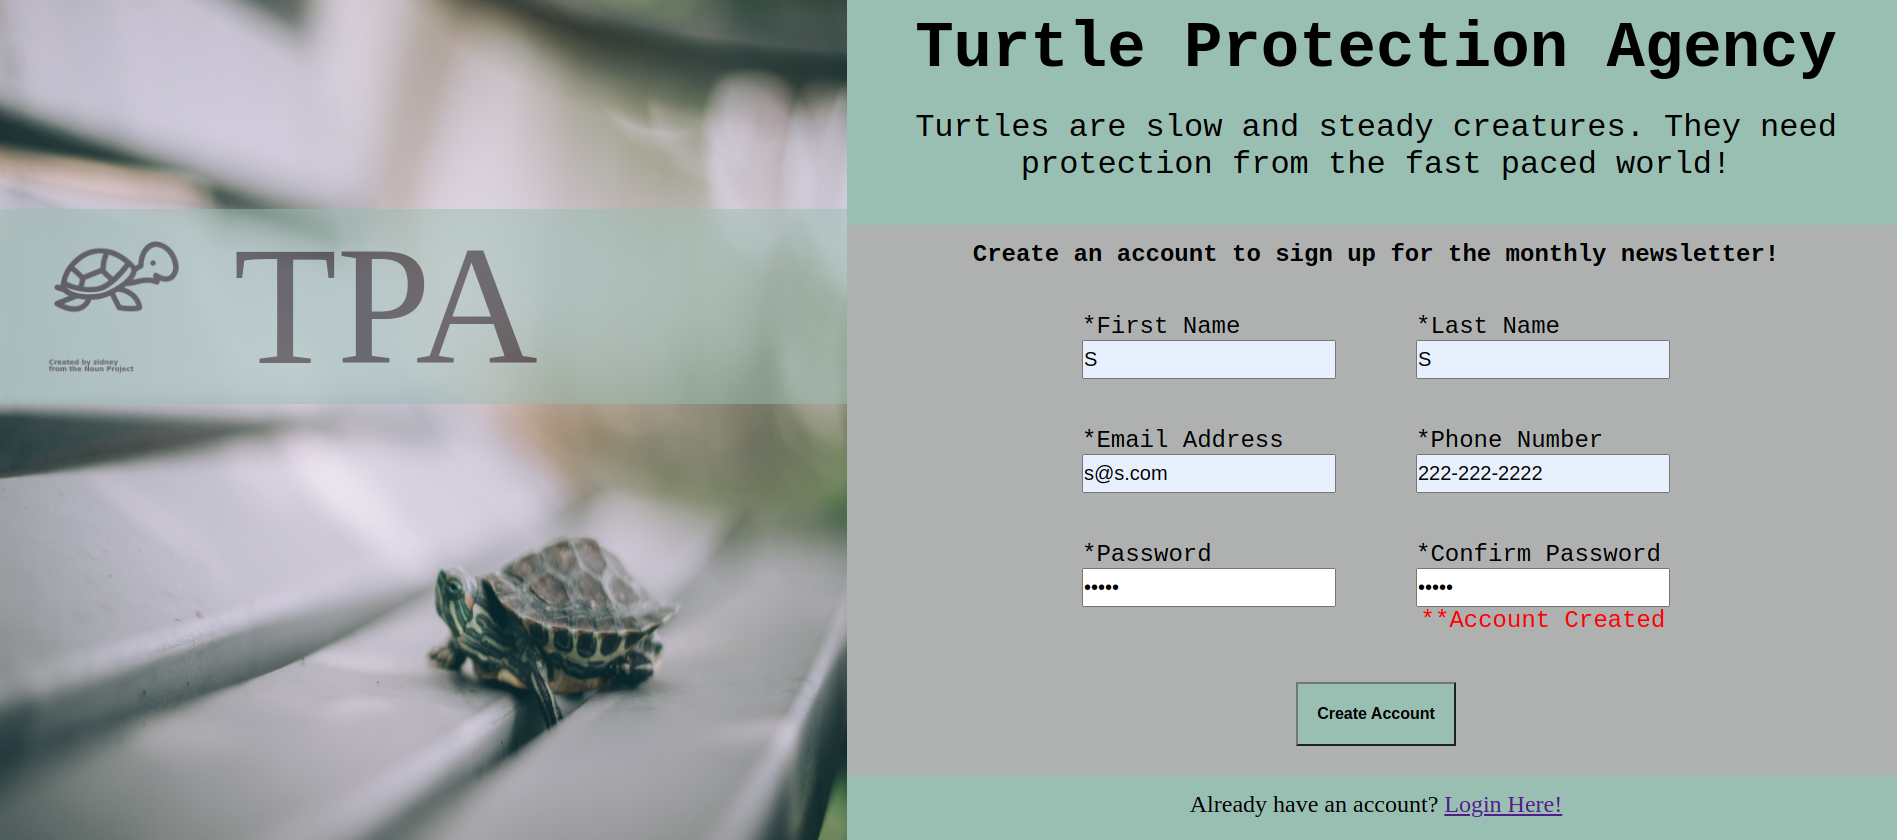
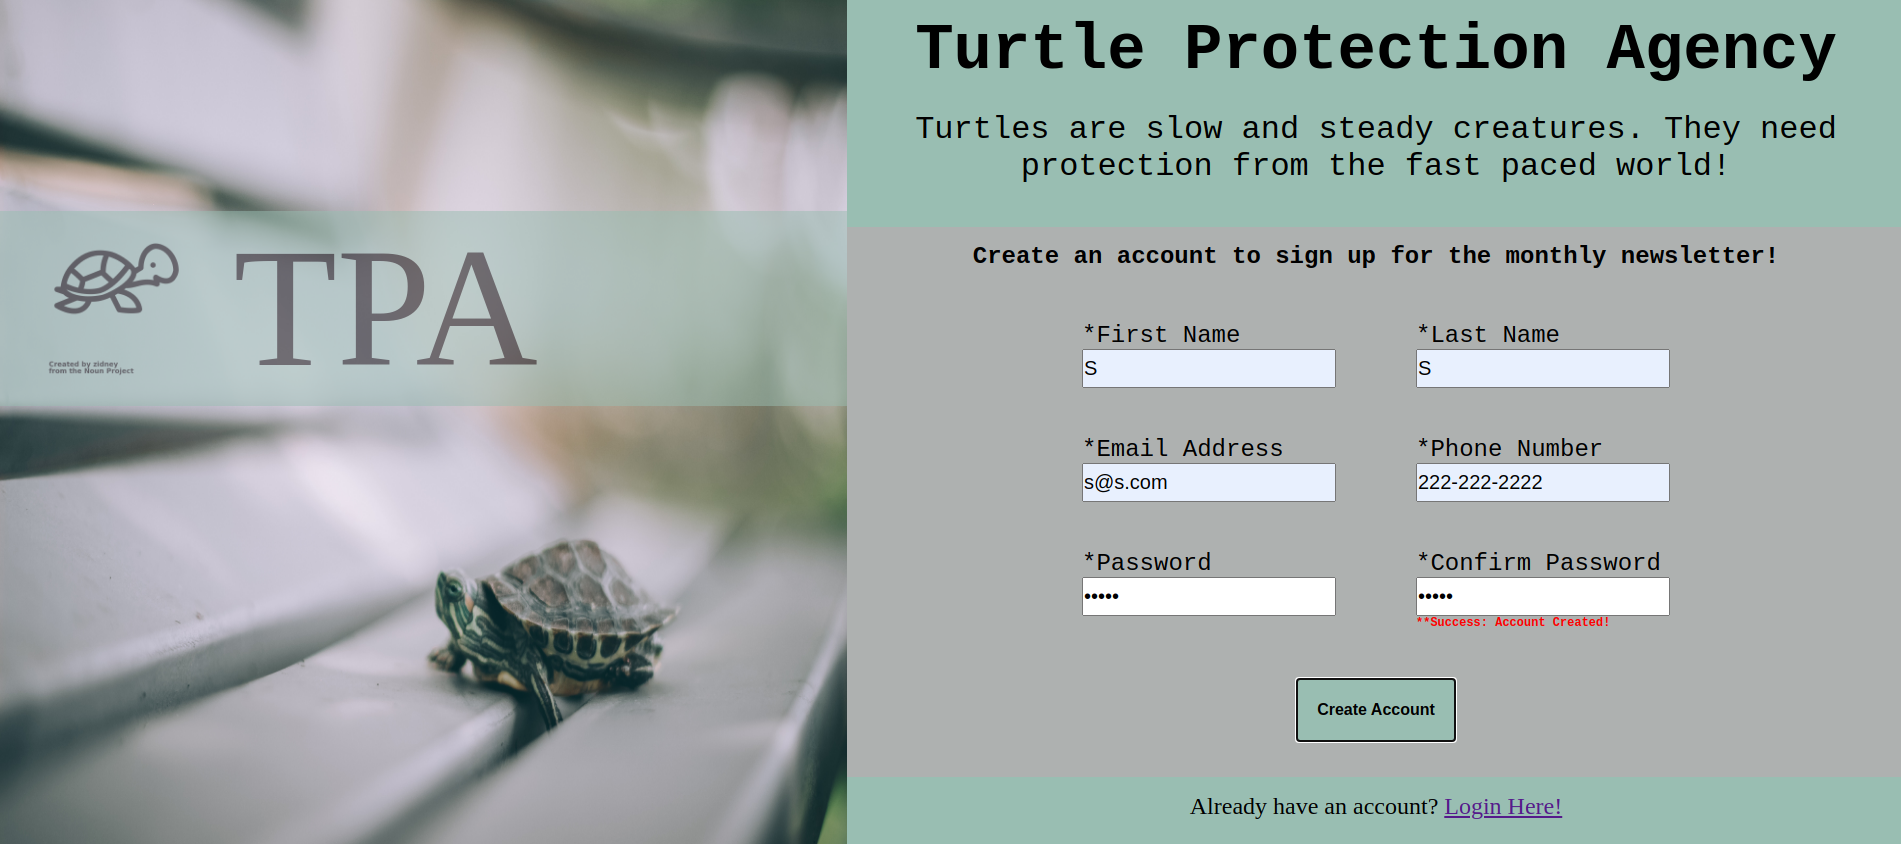
updated readme images, and js

diff --git a/script.js b/script.js
@@ -2,15 +2,13 @@ function passwordConfirmation() {
 
     let password = document.getElementById("password").value;
     let confirmPassword = document.getElementById("password2").value;
-
-    if (password == "") {
-        document.getElementById("message").innerHTML = "**Error: The password field is Empty.";
-    } else if (password == confirmPassword) {
+    
+    if (password == confirmPassword) {
         document.getElementById("message").innerHTML = "**Success: Account Created!";
         //return true; (When I want it to actually submit the form on a website)//
     } else {
-        document.getElementById("message").innerHTML = "**Error: Please make sure your passwords match.";
+        document.getElementById("message").innerHTML = "**Error: Passwords do not match.";
     }
     return false;
-}
 
+}

diff --git a/style.css b/style.css
@@ -121,7 +121,7 @@ button {
 }
 
 #message {
-    display: flex;
-    justify-content: center;
+    font-size: 12px;
+    font-weight: bold;
     color: red;
 }
